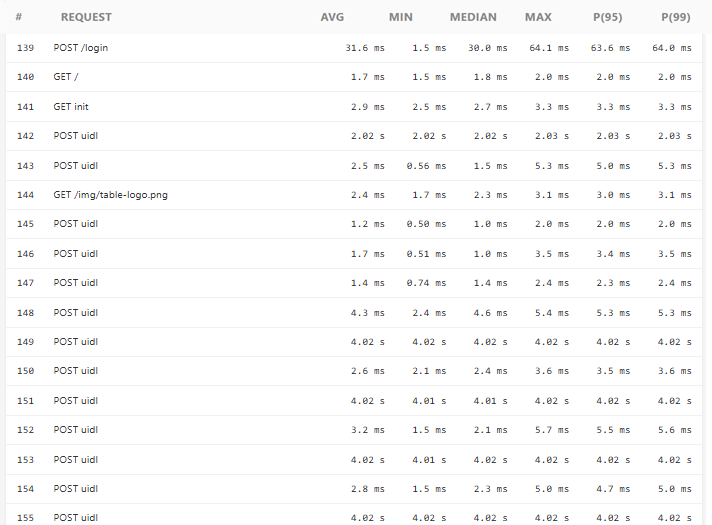
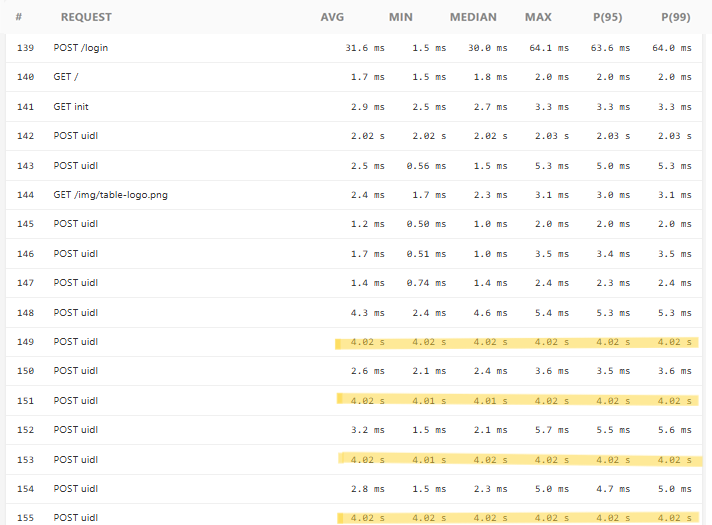
chore: update image and text

diff --git a/README.md b/README.md
@@ -92,7 +92,7 @@ Example response times with `simulateSlowDB=true` and 10 VUs. All tests run simu
 The 2s request duration threshold check fails the test with `k6.threshold.httpReqDurationP99=2000`.
 ![report_thresholds_sim.png](img/report_thresholds_sim.png)
 
-Some requests show high request duration for the inventory view:
+UIDL requests fetching the next page of rows for the grid in the inventory view take a long time. The simulation adds a 2s delay per page fetch, which can add up when fetching more than once per request:
 ![report_requests_sim.png](img/report_requests_sim.png)
 
 Other example runs:
